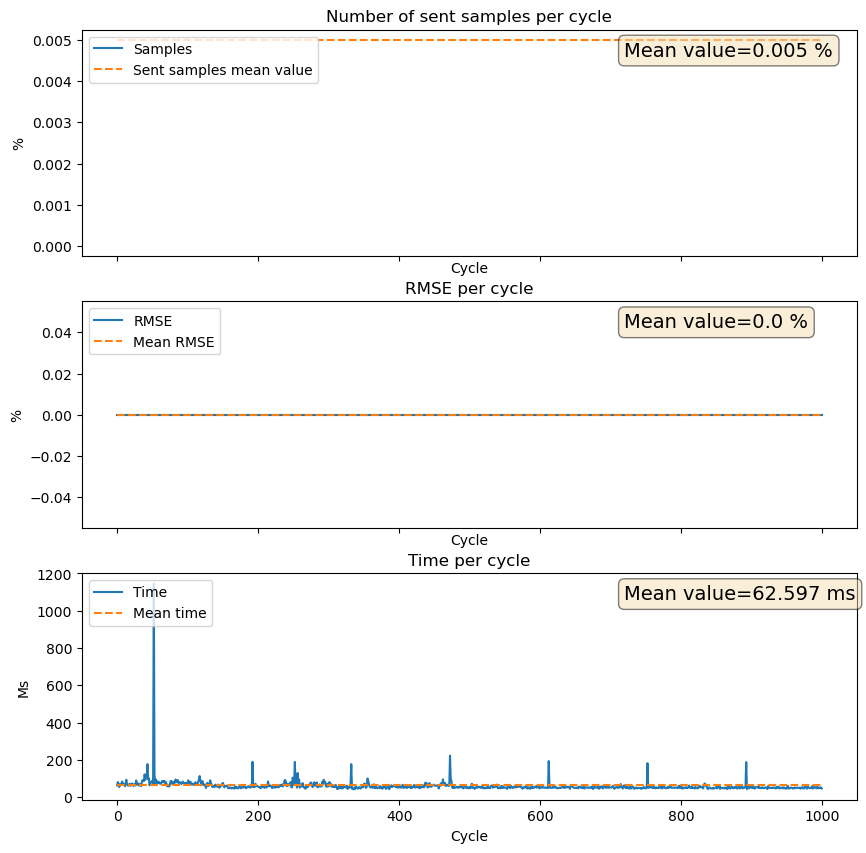
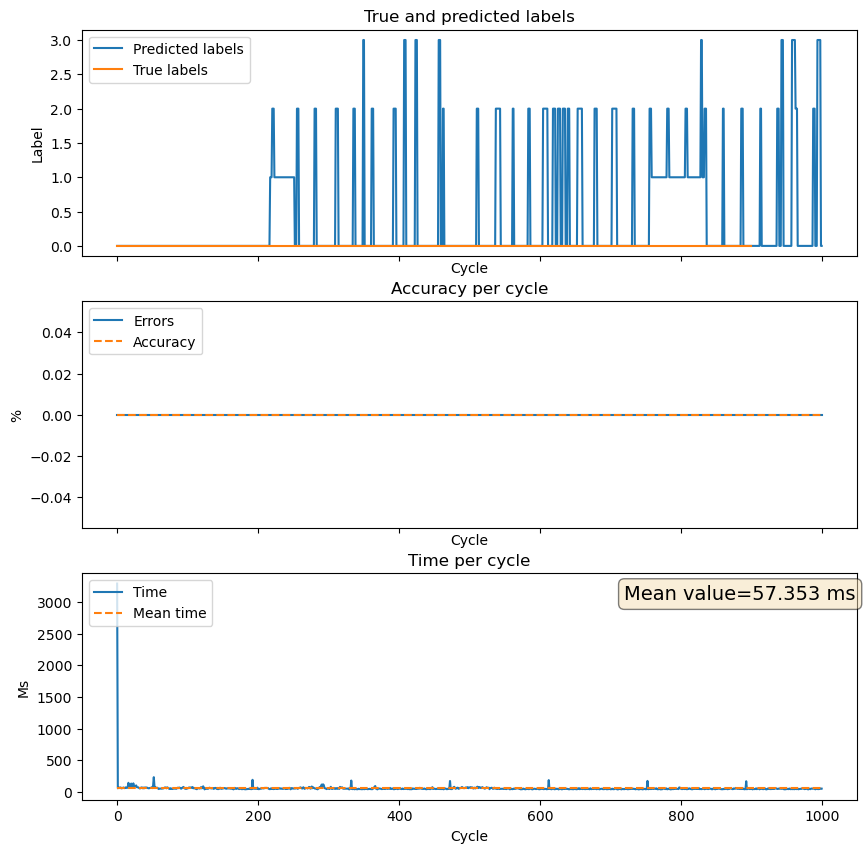
Working

diff --git a/Source/hapDev.py b/Source/hapDev.py
@@ -17,6 +17,7 @@ class HapDev(object):
     def __init__(self, buffer_size, network_delay, window, horizon, threshold):
         """
         Initialisation
+
         :param buffer_size: int, buffer to hold samples
         :param network_delay: float, the network delay in the device
         :param window: int, how many prior samples to base the prediction on
@@ -35,6 +36,7 @@ class HapDev(object):
     def receive_model(self, model):
         """
         Receive model from the cloud
+
         :param model: keras model
         """
         self.model = model
@@ -42,6 +44,7 @@ class HapDev(object):
     def add_sensor(self, sensor):
         """
         Add sensor to the device
+
         :param sensor:
         :return:
         """
@@ -50,23 +53,23 @@ class HapDev(object):
     def remove_sensor(self, sensor_id):
         """
         Remove sensor from the device
+
         :param sensor_id:
         :return:
         """
         self.sensor_list = [x for x in self.sensor_list if x.id != sensor_id]
 
-    def receive_data(self, sensor_id, source):
+    def receive_data(self, sensor, source):
         """
         Receive sample from a sensor
-        :param sensor_id:
+
+        :param sensor:
         :return: single sample
         """
-        sensor = [x for x in self.sensor_list if x.id == sensor_id][0]
-
         if source == 'sample':
             sample = sensor.send_sample()
         elif source == 'label':
-            sample = sensor.send_label()
+            sample = sensor.send_label(self.window)
 
         # print("Received sample number {sample_nr}".format(sample_nr=sensor.sample_counter))
 
@@ -75,6 +78,7 @@ class HapDev(object):
     def predict_values(self, sensor, data):
         """
         Predicts the next #horizon samples based on #window past buffers
+
         :param sensor_id: int, which sensor are we predicting
         :return: the predicted values as an array
         """
@@ -94,41 +98,39 @@ class HapDev(object):
     def compare_data(self, sensor, buffer, predictions):
         """
         Compare the predicted values to the actual measures stored in the buffer
+
         :param sensor_id:
         :return:    list of errors
                     average error
                     number of sent samples
         """
         errors = []
-        sent_samples = 0
+        predictions = np.argmax(predictions)
 
         print(buffer)
         print(predictions)
-        predictions = np.argmax(predictions)
 
-        # Calculate individual errors and how many samples would have been sent
         actual = buffer
         predicted = predictions
 
         if actual != predicted:
-            real_error = True
-            errors.append(real_error)
-            sent_samples += 1
+            errors.append(True)
 
         mean_error = 0
 
-        return errors, mean_error, sent_samples
+        return errors, mean_error, predicted
 
-    def add_to_buffer(self, sensor_id, length, source):
+    def add_to_buffer(self, sensor, length, source):
         """
         Populate the buffer with samples
+
         :param sensor_id: int, which sensor to use
         :return: array of #buffer_size length
         """
         stop = False
         sample_buffer = []
         for i in range(length):
-            sample = self.receive_data(sensor_id, source=source)
+            sample = self.receive_data(sensor, source=source)
             sample_buffer.append(sample)
 
         return np.asarray(sample_buffer)
@@ -145,18 +147,14 @@ class HapDev(object):
         start = time.time()
 
         # First step is to fill the buffer with samples
-        sample_buffer = self.add_to_buffer(sensor_id, self.window, 'sample')
-        label_buffer = self.add_to_buffer(sensor_id, self.horizon, 'label')
+        sample_buffer = self.add_to_buffer(sensor, self.window, 'sample')
+        label_buffer = self.add_to_buffer(sensor, self.horizon, 'label')
 
         # Make prediction
         predictions = self.predict_values(sensor, sample_buffer)
 
         # Evaluate the predictions
         errors_list, mean_error, sent_samples = self.compare_data(sensor, label_buffer, predictions)
-
-        # Now fill buffer again with new samples
-        sample_buffer = self.add_to_buffer(sensor_id, self.window, 'sample')
-        label_buffer = self.add_to_buffer(sensor_id, self.horizon, 'label')
 
         end = time.time()
         run_time = (end - start) * 1000

diff --git a/Source/simulation.py b/Source/simulation.py
@@ -16,43 +16,52 @@ import matplotlib.pyplot as plt
 import numpy as np
 
 
-def plot_simulation_history(sent_samples, errors, run_times, horizon, model_path, threshold, domain):
-    # Turn sent samples to percentage
-    # sent_samples = (np.asarray(sent_samples) / horizon) * 100
-    # errors = [x * 100 for x in errors]
+def plot_simulation_history(predicted_labels, true_labels, errors, run_times, model_path, threshold, domain):
+    """
 
+    :param predicted_labels:
+    :param errors:
+    :param run_times:
+    :param model_path:
+    :param threshold:
+    :param domain:
+    """
     # Calculate mean of sent samples, errors and run times
-    sent_samples_mean = [np.mean(sent_samples)] * len(sent_samples)
+    sent_samples_mean = [np.mean(predicted_labels)] * len(predicted_labels)
     mean_errors = [np.mean(errors)] * len(errors)
     mean_time = [np.mean(run_times)] * len(run_times)
-    run_times[0] = mean_time[0]
+
+    print(len(predicted_labels))
+    print(predicted_labels)
+    print(len(true_labels))
+    print(true_labels)
 
     # Plot the data
     fig, ax = plt.subplots(nrows=3, ncols=1, figsize=(10, 10), sharex=True)
 
     # Plot the samples
-    ax[0].plot(sent_samples[0], label='Samples')
-    ax[0].plot(sent_samples_mean, label='Sent samples mean value', linestyle='--')
+    ax[0].plot(predicted_labels, label='Predicted labels')
+    ax[0].plot(true_labels, label='True labels')
     ax[0].legend(loc='upper left')
-    ax[0].set(xlabel='Cycle', ylabel='%', title='Number of sent samples per cycle')
+    ax[0].set(xlabel='Cycle', ylabel='Label', title='True and predicted labels')
 
-    # Add text box
-    text_0 = 'Mean value={mean} %'.format(mean=np.round(sent_samples_mean[0], decimals=3))
-    props = dict(boxstyle='round', facecolor='wheat', alpha=0.5)
-    ax[0].text(0.7, 0.95, text_0, transform=ax[0].transAxes, fontsize=14,
-               verticalalignment='top', bbox=props)
+    # # Add text box
+    # text_0 = 'Mean value={mean} %'.format(mean=np.round(sent_samples_mean[0], decimals=3))
+    # props = dict(boxstyle='round', facecolor='wheat', alpha=0.5)
+    # ax[0].text(0.7, 0.95, text_0, transform=ax[0].transAxes, fontsize=14,
+    #            verticalalignment='top', bbox=props)
 
-    # Plot the RMS
-    ax[1].plot(errors, label='RMSE')
-    ax[1].plot(mean_errors, label='Mean RMSE', linestyle='--')
+    # Plot the errors
+    ax[1].plot(errors, label='Errors')
+    ax[1].plot(mean_errors, label='Accuracy', linestyle='--')
     ax[1].legend(loc='upper left')
-    ax[1].set(xlabel='Cycle', ylabel='%', title='RMSE per cycle')
+    ax[1].set(xlabel='Cycle', ylabel='%', title='Accuracy per cycle')
 
     # Add text box
-    text_1 = 'Mean value={mean} %'.format(mean=np.round(np.round(mean_errors[0], decimals=3)))
-    props = dict(boxstyle='round', facecolor='wheat', alpha=0.5)
-    ax[1].text(0.7, 0.95, text_1, transform=ax[1].transAxes, fontsize=14,
-               verticalalignment='top', bbox=props)
+    # text_1 = 'Mean value={mean} %'.format(mean=np.round(np.round(mean_errors[0], decimals=3)))
+    # props = dict(boxstyle='round', facecolor='wheat', alpha=0.5)
+    # ax[1].text(0.7, 0.95, text_1, transform=ax[1].transAxes, fontsize=14,
+    #            verticalalignment='top', bbox=props)
 
     # Plot the run time
     ax[2].plot(run_times, label='Time')
@@ -77,6 +86,10 @@ def plot_simulation_history(sent_samples, errors, run_times, horizon, model_path
 
 
 def main():
+    """
+
+    :return:
+    """
     # print(device_lib.list_local_devices())
     # Define simulation parameters
     print('Define the simulation parameters')
@@ -230,7 +243,7 @@ def main():
         run_times.append(run_time)
 
     # Plot the results
-    plot_simulation_history(sent_samples, mean_errors, run_times, horizon, model_path, threshold, domain)
+    plot_simulation_history(sent_samples, dataset_labels[window:cycle_count], mean_errors, run_times, model_path, threshold, domain)
 
 
 if __name__ == '__main__':

diff --git a/Source/sensor.py b/Source/sensor.py
@@ -30,14 +30,14 @@ class Sensor(object):
 
         return to_send_sample
 
-    def send_label(self):
+    def send_label(self, window):
         """
         Send single label
         :return: float, single sample
         """
-        to_send_label = self.dataset_labels[self.sample_counter]
+        to_send_label = self.dataset_labels[self.label_counter]
 
-        self.label_counter += 1
+        self.label_counter += window
 
         return to_send_label
 
